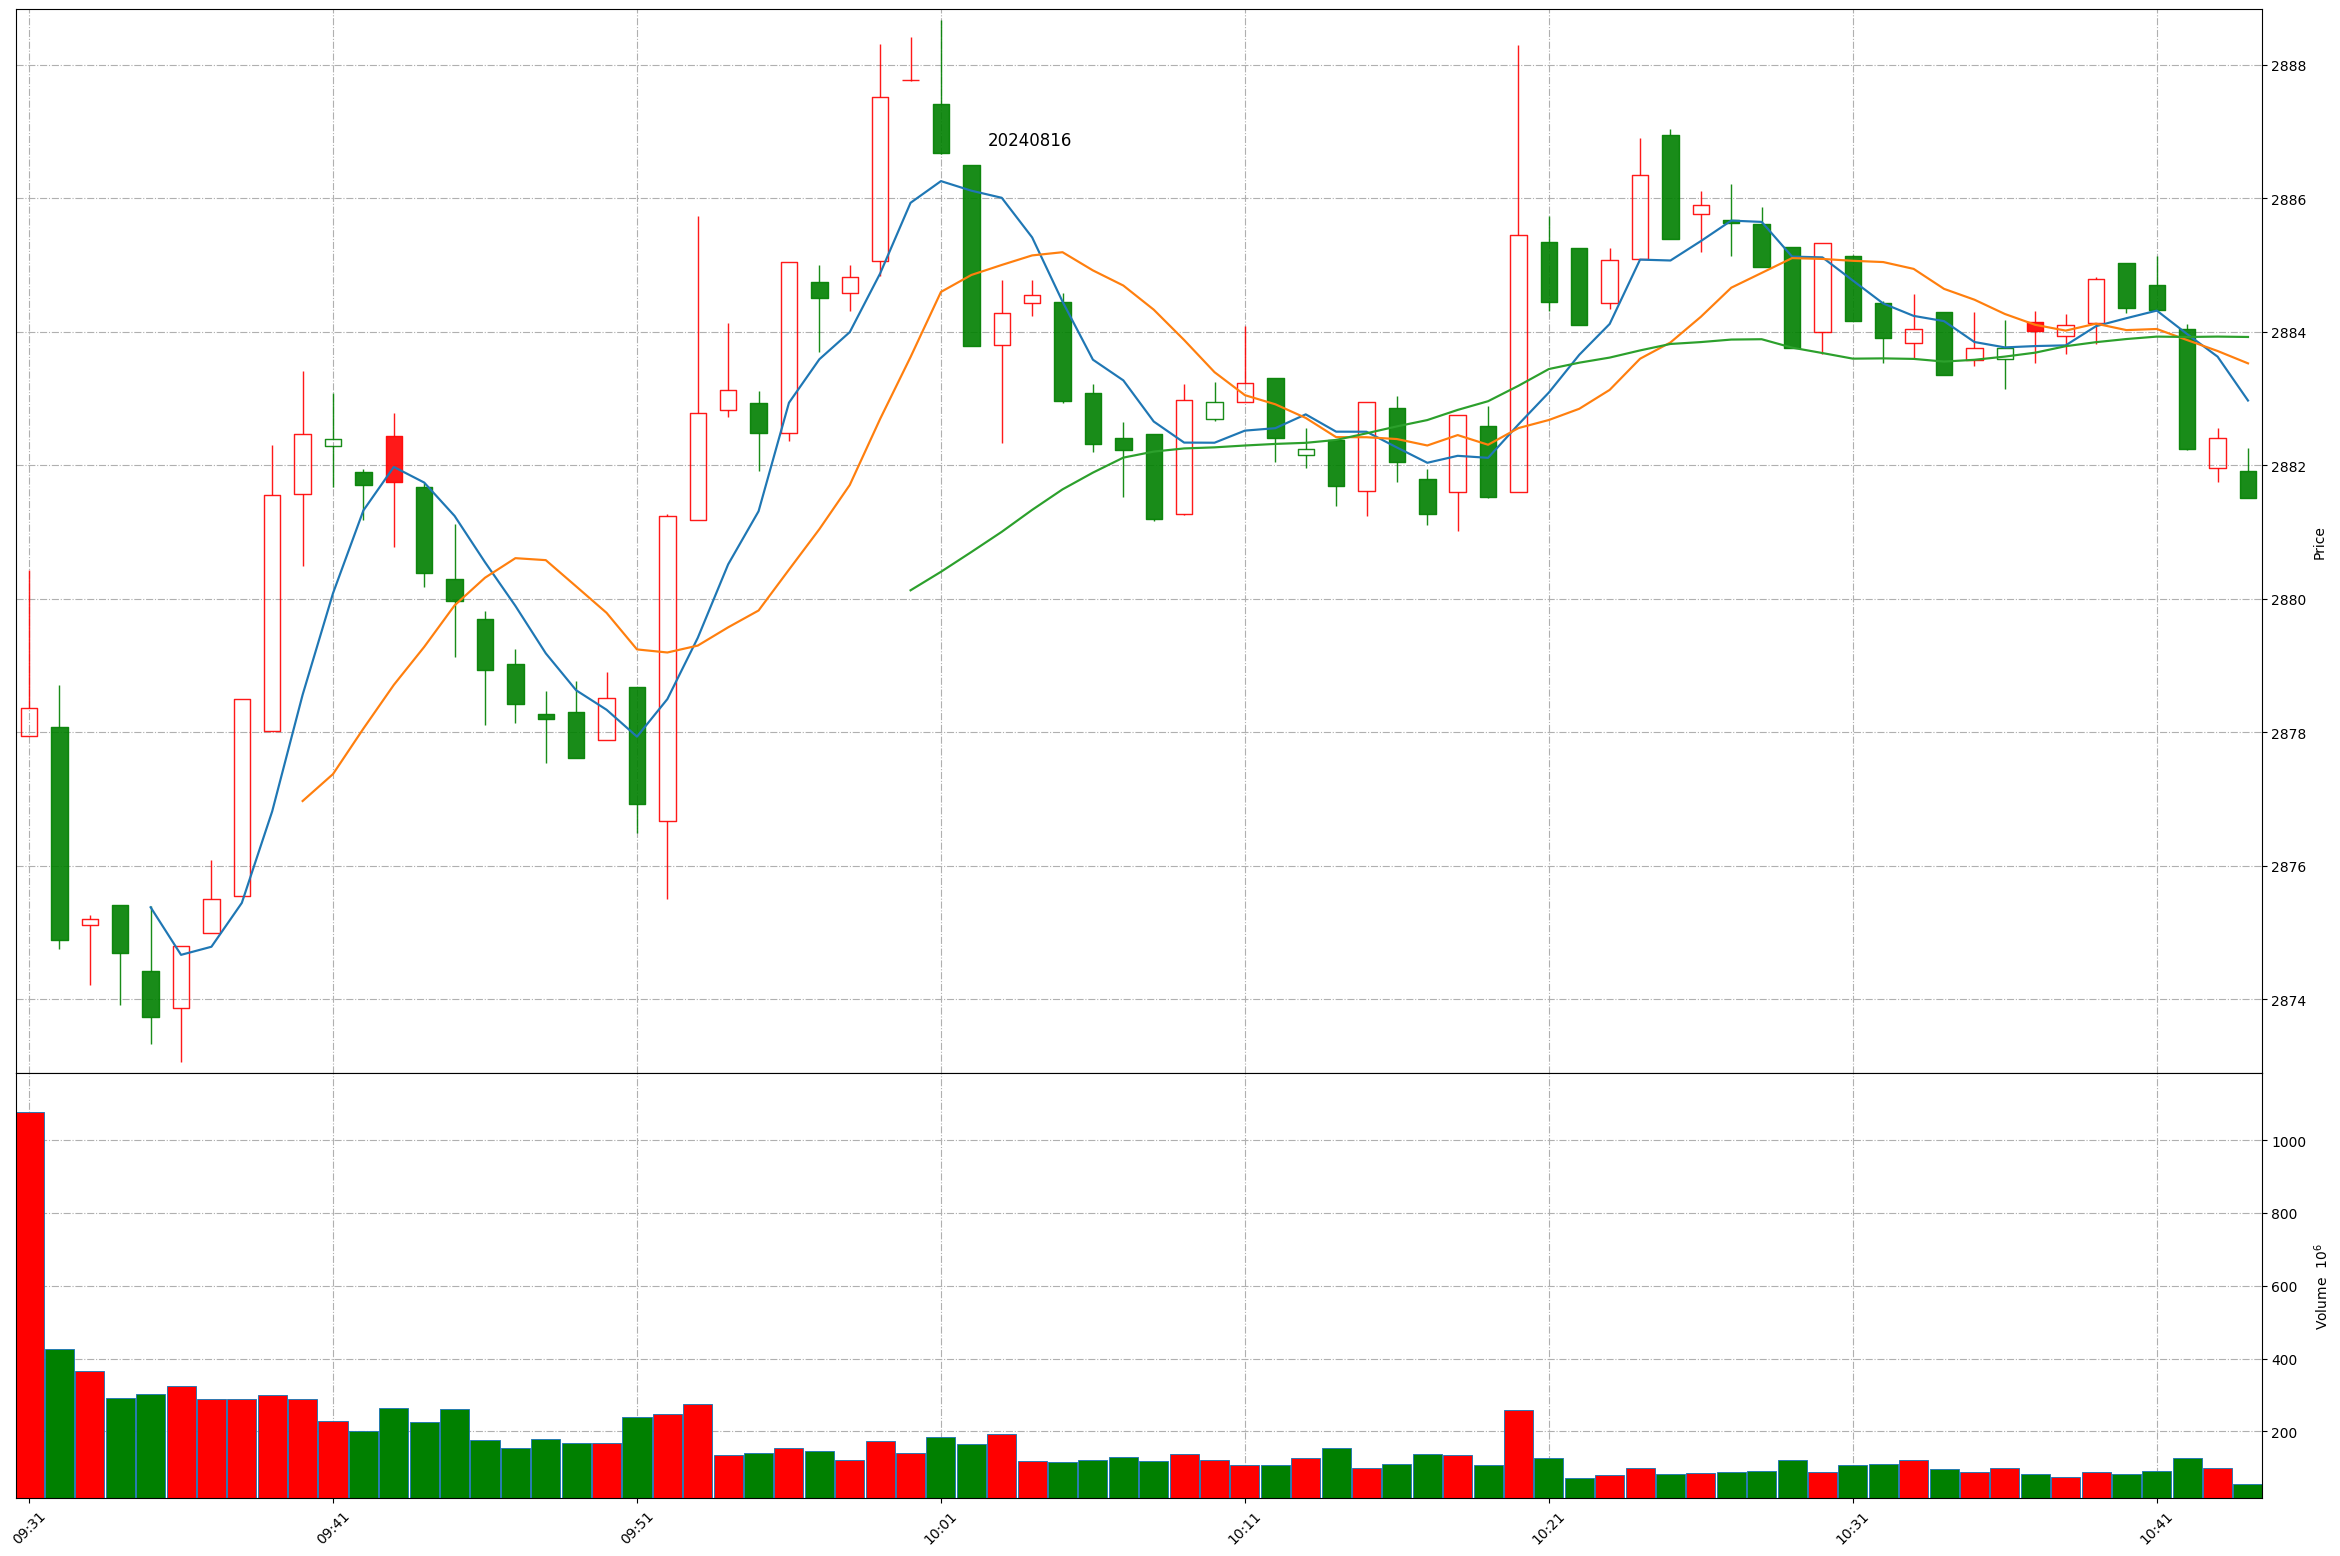
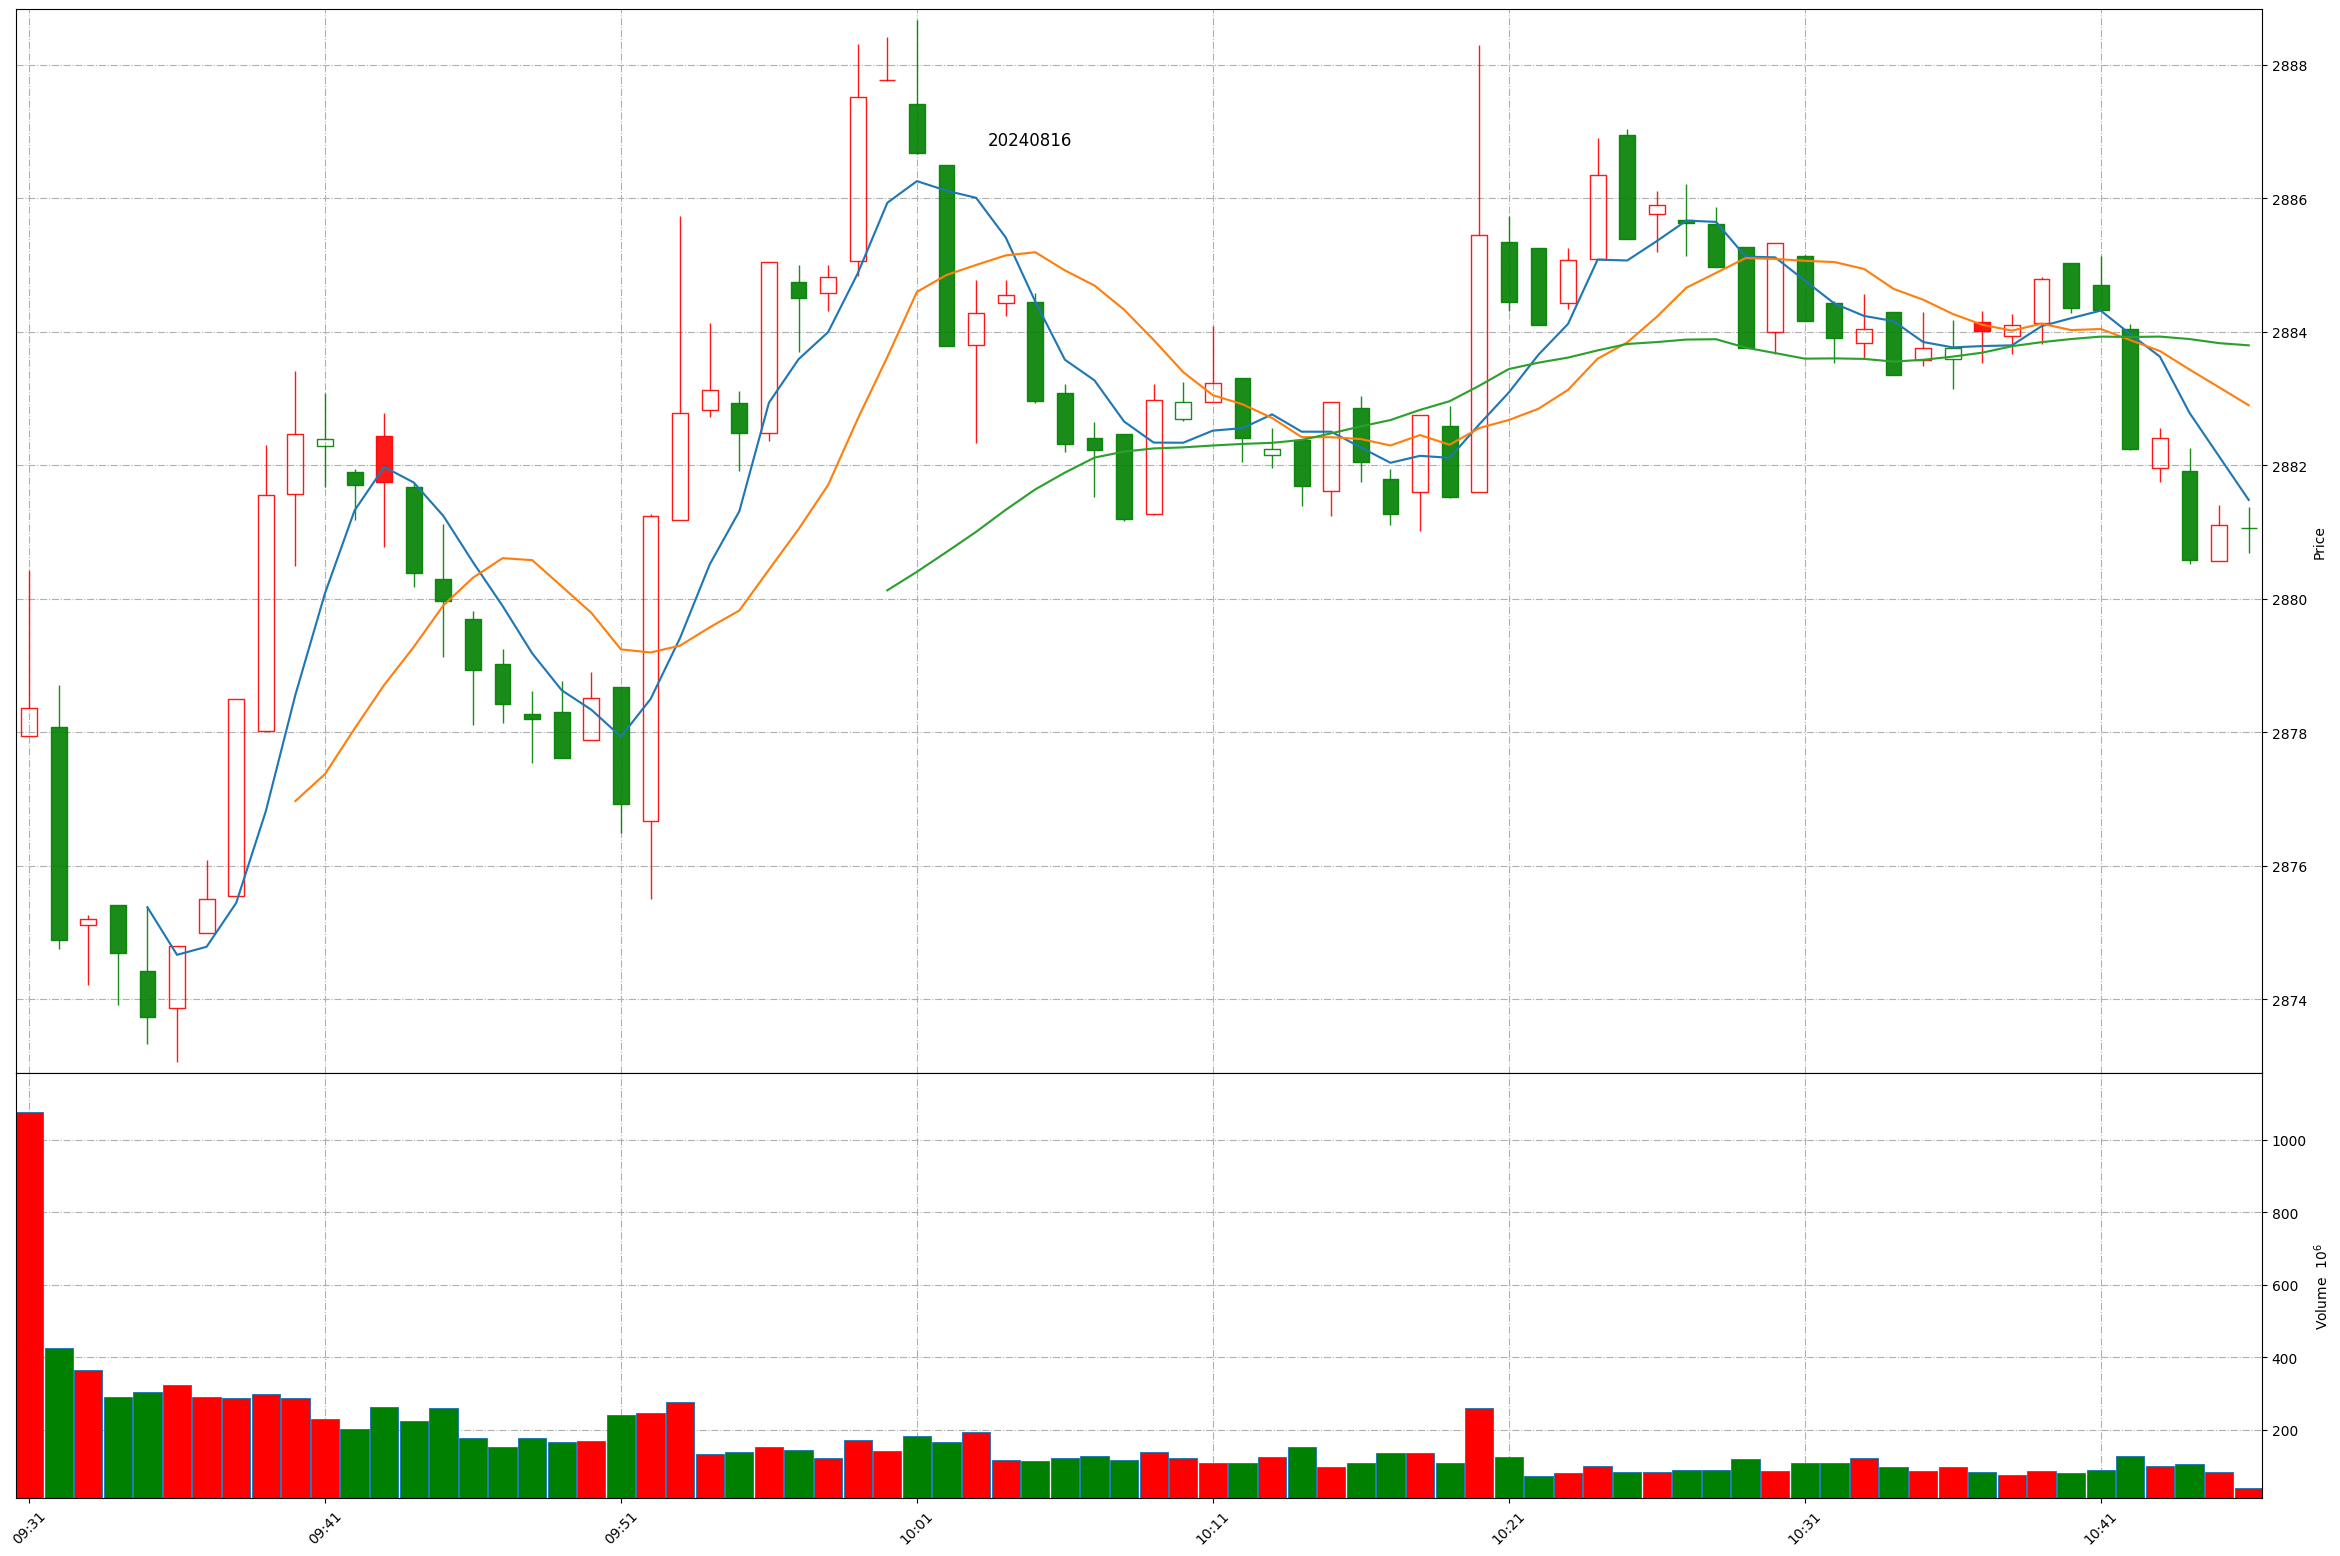
Github action update at 2024-08-16 10:45:51.

Changed region(s): [[0.0312, 0.0308, 0.9671, 0.6787], [0.0312, 0.8946, 0.9671, 0.9871]]

diff --git a/README.md b/README.md
@@ -1,11 +1,11 @@
 
 # Daily-A-share-market-quotes 每日 A 股指数（5min 更新）- 20240816
 
-### 上证指数 20240816 10:43
+### 上证指数 20240816 10:45
 ![](./fig/2024/8/20240816-sh000001.png)
 
-### 深证成指 20240816 10:43
+### 深证成指 20240816 10:45
 ![](./fig/2024/8/20240816-sz399001.png)
 
-### 北证50 20240816 10:43
+### 北证50 20240816 10:45
 ![](./fig/2024/8/20240816-bj899050.png)
